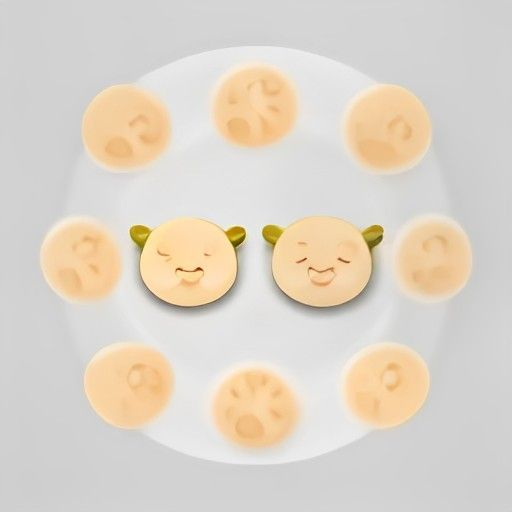
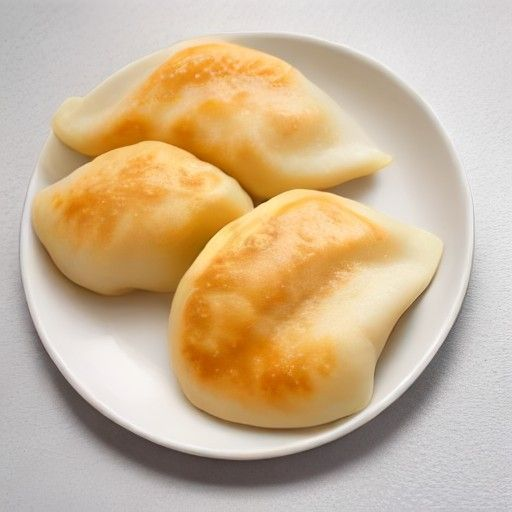
feat(food): regenerate realistic photos for dumpling/baozi/cookie/candy; bump food.html cache

diff --git a/food.html b/food.html
@@ -389,7 +389,7 @@
             .food-word { font-size: 40px; }
         }
     </style>
-    <link rel="stylesheet" href="dark-mode.css">
+    <link rel="stylesheet" href="dark-mode.css?v=2">
 </head>
 <body>
     <div class="start-overlay" id="startOverlay">
@@ -423,7 +423,7 @@
     </div>
     <div class="stars" id="starEffect">⭐</div>
 
-    <script src="js/common.js"></script>
+    <script src="js/common.js?v=2"></script>
     <script>
         let foods = [];
         let currentIndex = 0;
@@ -452,8 +452,9 @@
         }
 
         function updateNavButtons() {
-            document.getElementById('prevBtn').disabled = currentIndex === 0;
-            document.getElementById('nextBtn').disabled = currentIndex === foods.length - 1;
+            // 循环模式下按钮始终可用
+            document.getElementById('prevBtn').disabled = false;
+            document.getElementById('nextBtn').disabled = false;
         }
 
         let currentAudio = null;
@@ -608,11 +609,9 @@
 
             let newIndex;
             if (direction === 'next') {
-                newIndex = currentIndex + 1;
-                if (newIndex >= foods.length) newIndex = foods.length - 1;
+                newIndex = (currentIndex + 1) % foods.length;
             } else {
-                newIndex = currentIndex - 1;
-                if (newIndex < 0) newIndex = 0;
+                newIndex = (currentIndex - 1 + foods.length) % foods.length;
             }
             if (newIndex === currentIndex) return;
 

diff --git a/scripts/regenerate_food_realistic.py b/scripts/regenerate_food_realistic.py
@@ -1,67 +1,120 @@
 #!/usr/bin/env python3
-# -*- coding: utf-8 -*-
-"""重新生成指定食物的写实风格图片"""
+"""Regenerate selected food module images as realistic food photography."""
+import hashlib
 import json
-import requests
 import time
+import urllib.parse
 from pathlib import Path
-from urllib.parse import quote
 
-BASE_DIR = Path(__file__).resolve().parent.parent
-CONTENT_FILE = BASE_DIR / "content" / "food_module.json"
-OUTPUT_DIR = BASE_DIR / "assets" / "images" / "food"
-OUTPUT_DIR.mkdir(parents=True, exist_ok=True)
+import requests
 
-TARGET_WORDS = ['披萨', '酸奶', '奶酪', '鸡蛋', '包子', '馒头', '面条']
+ROOT = Path(__file__).resolve().parent.parent
+JSON_PATH = ROOT / "content" / "food_module.json"
+IMAGE_DIR = ROOT / "assets" / "images" / "food"
 
-def realistic_prompt(word, english):
-    prompts = {
-        '披萨': 'A realistic slice of pizza with melted cheese, pepperoni and herbs, food photography, clean white background, soft natural lighting, appetizing, detailed texture, no text, no watermark',
-        '酸奶': 'A realistic cup of white yogurt with a spoon, creamy texture, food photography, clean white background, soft natural lighting, appetizing, no text, no watermark',
-        '奶酪': 'A realistic wedge of yellow cheese with holes, food photography, clean white background, soft natural lighting, appetizing, detailed texture, no text, no watermark',
-        '鸡蛋': 'A realistic fried egg with bright yellow yolk and white egg white, food photography, clean white background, soft natural lighting, appetizing, no text, no watermark',
-        '包子': 'A realistic steamed stuffed bun (baozi), fluffy white bun, food photography, clean white background, soft natural lighting, appetizing, no text, no watermark',
-        '馒头': 'A realistic steamed bun (mantou), white fluffy bun, food photography, clean white background, soft natural lighting, appetizing, no text, no watermark',
-        '面条': 'A realistic bowl of noodles with chopsticks, steam rising, food photography, clean white background, soft natural lighting, appetizing, no text, no watermark',
-    }
-    return prompts.get(word, f"A realistic {english}, food photography, clean white background, soft natural lighting, appetizing, no text, no watermark")
+# Items to regenerate: word -> file
+TARGET_WORDS = ["饺子", "糖果"]
 
-with open(CONTENT_FILE, "r", encoding="utf-8") as f:
-    data = json.load(f)
+STYLE = (
+    "Realistic food photography, appetizing, clean white background, "
+    "soft natural lighting, vivid colors, shallow depth of field, "
+    "no text, no watermark, no cartoon, no illustration"
+)
 
-items = [w for w in data["words"] if w["word"] in TARGET_WORDS]
-print(f"需要重新生成 {len(items)} 张食物图片", flush=True)
+PROMPTS = {
+    "饺子": (
+        "A top-down realistic food photo of a white ceramic plate holding "
+        "six Chinese jiaozi dumplings arranged neatly, "
+        "each dumpling is a clear half-moon crescent shape with pinched pleats only along the curved outer edge, "
+        "the flat straight edge is smooth, thin translucent wrappers, steam rising, "
+        "clean white background, professional food photography, 8k"
+    ),
+    "包子": (
+        "A bamboo steamer basket with several freshly steamed Chinese baozi buns, "
+        "each a round white fluffy bun with a classic spiral twist pleat on top, "
+        "soft puffy dough, one bun gently pulled open showing savory minced pork filling, "
+        "clean white background, realistic food photography"
+    ),
+    "饼干": (
+        "A stack of homemade chocolate chip cookies on a simple white plate, "
+        "golden brown crispy edges, melted chocolate chips, one cookie broken in half, "
+        "crumbs scattered naturally, clean white background, realistic food photography"
+    ),
+    "糖果": (
+        "A realistic food photo of a small pile of classic individually wrapped hard candies on a white plate, "
+        "each candy wrapped in shiny metallic foil or clear cellophane with crinkled twisted wrapper ends, "
+        "mix of red, green, yellow, blue, pink wrappers, "
+        "clearly visible separate small candies, "
+        "clean white background, professional food photography, 8k"
+    ),
+}
 
-def download_with_retry(item, max_retries=5):
-    file_name = item['file']
-    word = item['word']
-    prompt = realistic_prompt(word, item.get('english', word))
-    url = f"https://image.pollinations.ai/prompt/{quote(prompt)}?width=512&height=512&seed={abs(hash(file_name + 'realistic')) % 100000}&nologo=true&private=true&nofeed=true&model=flux"
-    
-    for attempt in range(max_retries):
+
+def stable_seed(word: str) -> int:
+    h = hashlib.sha256((word + "_realistic_food_v1").encode()).hexdigest()
+    return int(h[:8], 16)
+
+
+def download_image(prompt: str, seed: int, output: Path) -> bool:
+    encoded = urllib.parse.quote(prompt)
+    # 使用 flux 模型以获得更好的写实食物摄影效果
+    url = (
+        f"https://image.pollinations.ai/prompt/{encoded}"
+        f"?width=512&height=512&seed={seed}"
+        f"&nologo=true&private=true&nofeed=true&model=flux"
+    )
+    for attempt in range(4):
         try:
-            r = requests.get(url, timeout=60)
+            r = requests.get(url, timeout=90)
             if r.status_code == 200 and "image" in r.headers.get("content-type", ""):
-                (OUTPUT_DIR / f"{file_name}.png").write_bytes(r.content)
-                return True, len(r.content)
+                output.write_bytes(r.content)
+                return True
             elif r.status_code == 429:
                 wait = 30 * (2 ** attempt)
-                print(f"  [{word}] 429 限流，等待 {wait} 秒后重试...", flush=True)
+                print(f"  429 for {output.name}, waiting {wait}s...")
                 time.sleep(wait)
             else:
-                print(f"  [{word}] HTTP {r.status_code}，等待 10 秒后重试...", flush=True)
+                print(f"  HTTP {r.status_code} for {output.name}")
                 time.sleep(10)
         except Exception as e:
-            print(f"  [{word}] 错误: {e}，等待 10 秒后重试...", flush=True)
+            print(f"  Error: {e}")
             time.sleep(10)
-    return False, 0
+    return False
 
-for i, item in enumerate(items, 1):
-    success, size = download_with_retry(item)
-    if success:
-        print(f"[{i}/{len(items)}] 成功: {item['word']} ({item['file']}) - {size} bytes", flush=True)
-    else:
-        print(f"[{i}/{len(items)}] 失败: {item['word']} ({item['file']})", flush=True)
-    time.sleep(3)
 
-print("食物写实图片重新生成完成", flush=True)
+def backup(path: Path) -> None:
+    bak = path.with_suffix(path.suffix + ".bak")
+    if path.exists() and not bak.exists():
+        bak.write_bytes(path.read_bytes())
+
+
+def main():
+    data = json.loads(JSON_PATH.read_text(encoding="utf-8"))
+    items = data.get("words", [])
+    ok = []
+    failed = []
+    for item in items:
+        word = item["word"]
+        if word not in TARGET_WORDS:
+            continue
+        file = item["file"]
+        out = IMAGE_DIR / f"{file}.png"
+        prompt = PROMPTS[word] + ", " + STYLE
+        seed = stable_seed(word)
+        print(f"Generating: {word} ({file}.png) seed={seed}")
+        backup(out)
+        if download_image(prompt, seed, out):
+            size = out.stat().st_size
+            print(f"  OK: {size} bytes")
+            ok.append(word)
+        else:
+            print(f"  FAILED")
+            failed.append(word)
+        time.sleep(2)
+    print("\nDone.")
+    print("OK:", ok)
+    print("Failed:", failed)
+
+
+if __name__ == "__main__":
+    main()
